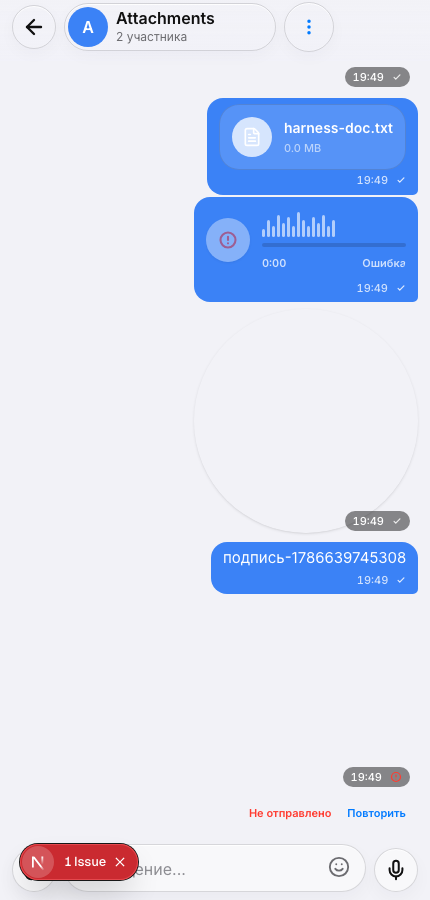
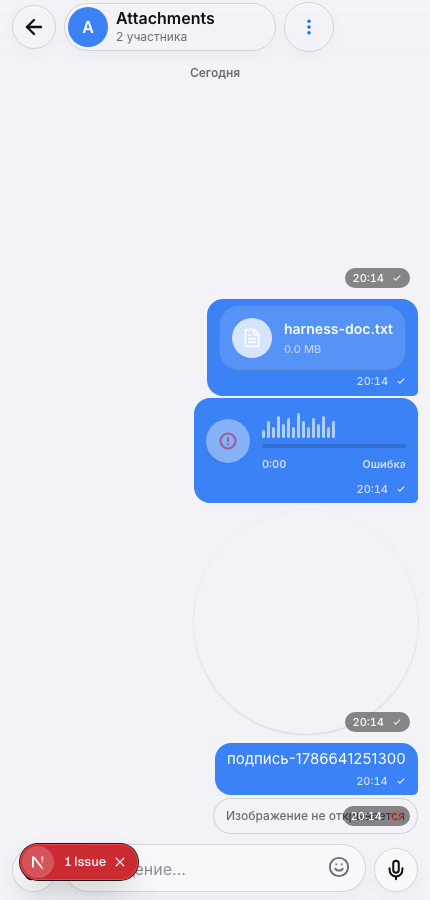
fix(chat): an image that cannot decode says so
The bubble that rendered as a frame around a timestamp is an image
attachment of 70 bytes. Production holds three of them, from an upload
fault that predates this work. The bytes decrypt; the decoder rejects
them; `<img>` paints nothing; what is left is the timestamp overlay on
an empty box, which reads as a duplicate of the message beside it.

Nothing recovers those bytes. The interface can at least stop pretending
there is a picture there, so a failed decode now renders "Изображение не
открывается". The element is the only thing that knows — a 70-byte size
is a hint, not a decision, and plenty of valid assets are small.

Also closes the other half of the report, by not changing it. The 51
messages carrying no delivery receipt are 47 from April, before receipts
were recorded at all, plus four since. They already render correctly: the
sending spinner is shown only while a message has a `temp-` id, so one
that exists on the server falls through to a single "sent" tick, which is
true. The only available "fix" would be to write receipts for deliveries
nobody observed, and inventing that record is worse than the gap.

Which also corrects an earlier reading of mine: the spinner in the first
screenshot was a send in flight, not a hang — the same message carries a
tick in the next one.

Changed region(s): [[0.4535, 0.0622, 0.9977, 0.6844], [0.4837, 0.7778, 0.9977, 0.9333]]

diff --git a/src/app/(app)/chats/[chatId]/MessageBubble.tsx b/src/app/(app)/chats/[chatId]/MessageBubble.tsx
@@ -175,6 +175,11 @@ function AttachmentPreview({
   ));
   const [decryptError, setDecryptError] = useState<string | null>(null);
   const [isDecrypting, setIsDecrypting] = useState(Boolean(attachment.isEncrypted) && !cachedMediaUrl);
+  // Some stored attachments are truncated — production holds images of 70
+  // bytes from an old upload fault. They decrypt to something the decoder
+  // rejects, so the <img> paints nothing and the bubble reads as empty. The
+  // element tells us; nothing else can.
+  const [imageBroken, setImageBroken] = useState(false);
   const [roundExpanded, setRoundExpanded] = useState(false);
   const [roundProgress, setRoundProgress] = useState(0);
   const roundVideoRef = useRef<HTMLVideoElement>(null);
@@ -337,6 +342,14 @@ function AttachmentPreview({
     );
   }
 
+  if (imageBroken) {
+    return (
+      <div className="mt-2 first:mt-0 rounded-xl border border-border-subtle bg-surface-muted/60 px-3 py-2 text-[12px] font-medium text-muted">
+        Изображение не открывается
+      </div>
+    );
+  }
+
   if (decryptError || !sourceUrl) {
     return (
       <div className="mt-2 first:mt-0 rounded-xl border border-border-subtle bg-surface-muted/60 px-3 py-2 text-[12px] font-medium text-muted">
@@ -367,6 +380,7 @@ function AttachmentPreview({
             alt=""
             className="absolute inset-0 h-full w-full object-cover transition-smooth hover:scale-[1.02]"
             loading="lazy"
+            onError={() => setImageBroken(true)}
           />
         </button>
       ) : isRoundVideo ? (
